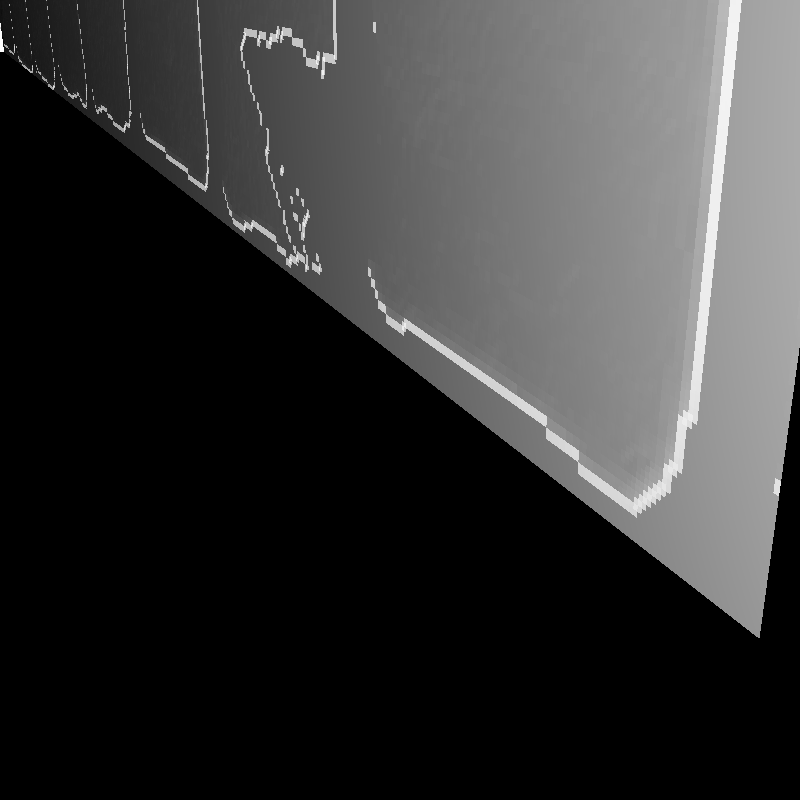
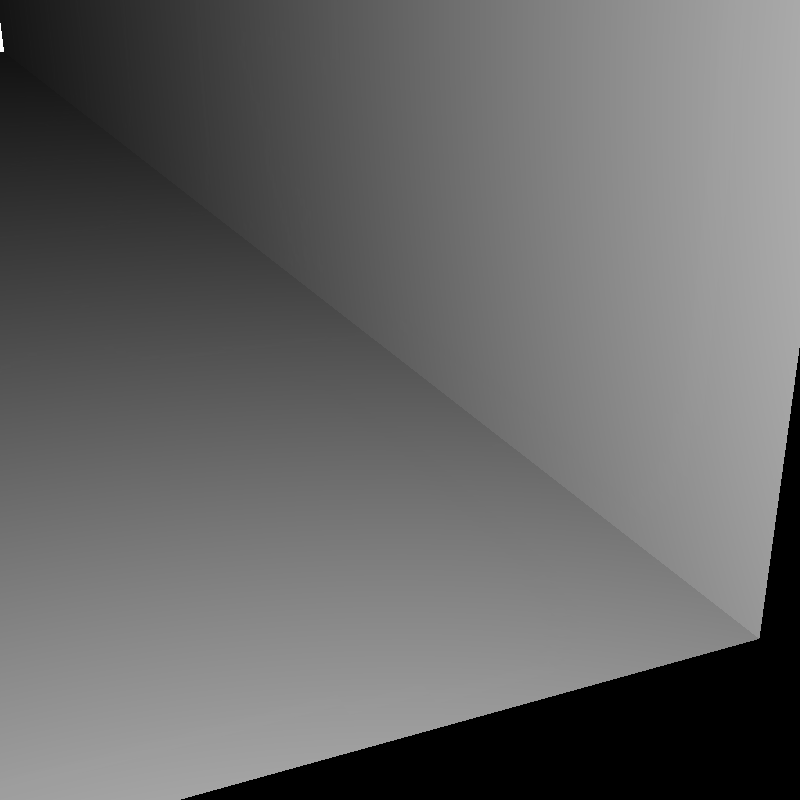
bumpmapping, still incomplete

diff --git a/CG1-skeleton/rt/primmod/bmap.cpp b/CG1-skeleton/rt/primmod/bmap.cpp
@@ -2,12 +2,62 @@
 #include <rt/solids/triangle.h>
 #include <rt/textures/texture.h>
 #include <core/color.h>
-#include <core/matrix.h>
+#include <iostream>
 
 namespace rt{
 
+	Vector solve(Vector &a, Vector &b, Vector &t){
+		Vector k = Vector::rep(0);
+		float det = a.x * b.y - a.y * b.x;
+		if(det > epsilon || det < -epsilon){
+			k.x = (t.x * b.y - t.y * b.x) / det;
+			k.y = (t.y * a.x - t.x * a.y) / det;
+		}
+		return k;
+	}
+
 	BumpMapper::BumpMapper(Triangle* base, Texture* bumpmap, const Point& bv1, const Point& bv2, const Point& bv3, float vscale)
-		: base(base), bumpmap(bumpmap), bv1(bv1), bv2(bv2), bv3(bv3), vscale(vscale) { }
+		: base(base), bumpmap(bumpmap), bv1(bv1), bv2(bv2), bv3(bv3), vscale(vscale) { 
+		//Matrix e = Matrix(Float4(bv1), Float4(bv2), Float4(bv3), Float4(0,0,0,0));
+		//Matrix w = Matrix(Float4(base->v1), Float4(base->v2), Float4(base->v3), Float4(0,0,0,0));
+		//BumpMapper::transform = product(w, e.invert());
+
+		/*Vector uv1 = bv2 - bv1;
+		Vector uv2 = bv3 - bv1;
+		float det = uv1.x * uv2.y - uv2.x * uv1.y;
+		if(det < epsilon && det > -epsilon){
+			wx = Vector::rep(0);
+			wy = Vector::rep(0);
+		}else{
+			Matrix m = Matrix(
+				Float4(uv2.y, -uv1.y, 0, 0),
+				Float4(-uv2.x, uv1.x, 0, 0),
+				Float4(0, 0, 0, 0),
+				Float4(0, 0, 0, 0)
+			);
+			Matrix e = Matrix(
+				Float4(base->v2 - base->v1),
+				Float4(base->v2 - base->v1),
+				Float4::rep(0),
+				Float4::rep(0)
+			);
+			Matrix w = product(m, e) * (1/det);
+			wx = Vector(w[0][0], w[0][1], w[0][2]);
+			wy = Vector(w[1][0], w[1][1], w[1][2]);
+		}*/
+
+		Vector ab = (base->v2 - base->v1);
+		Vector ac = (base->v3 - base->v1);
+
+		Vector a = (bv2 - bv1);
+		Vector b = (bv3 - bv1);
+
+		Vector factors = solve(a, b, Vector(1, 0, 0));
+		wx = -(ab * factors.x + ac * factors.y).normalize();
+
+		factors = solve(a, b,Vector(0, 1, 0));
+		wy = -(ab * factors.x + ac * factors.y).normalize();
+	}
 
 	BBox BumpMapper::getBounds() const
 	{
@@ -28,12 +78,8 @@ namespace rt{
 			RGBColor dy = bumpmap->getColorDY(uvw);
 			float dx_ = (dx.r + dx.g + dx.b) / 3;
 			float dy_ = (dy.r + dy.g + dy.b) / 3;
-			Matrix m1 = 
-			Vector ex = Vector(1,0,0);
-			Vector ey = Vector(0,1,0);
-			Vector wx = cross(intsc.normal(), bv2 - bv1).normalize()  * dx_;
-			Vector wy = cross(bv2 - bv1, intsc.normal()).normalize() * dy_;
-			return Intersection(intsc.distance, intsc.ray, intsc.solid, (intsc.normal() + wx + wy).normalize(), intsc.local());
+			//std::cout << wx.x << " " << wx.y << " " << wx.z << std::endl;
+			return Intersection(intsc.distance, intsc.ray, intsc.solid, (intsc.normal() + wx * dx_ + wy * dy_ ).normalize(), intsc.local());
 		}
 		return intsc;
 	}

diff --git a/CG1-skeleton/rt/textures/imagetex.cpp b/CG1-skeleton/rt/textures/imagetex.cpp
@@ -170,6 +170,62 @@ namespace rt{
 	{
 		if (i==NEAREST)
 		{
+			/*switch(bh)
+			{
+				float x1,y1;
+				int xx, xx1, xx2;
+				case REPEAT:
+					x1 = coord.x;
+					y1 = coord.y;
+					if(coord.x>1)
+						x1 = coord.x - (int)coord.x;
+					if(coord.y>1)
+						y1 = coord.y - (int)coord.y;
+					if(coord.x<0)
+						x1 = coord.x - floor(coord.x);
+					if(coord.y<0)
+						y1 = coord.y - floor(coord.y);
+					x1 = x1*(image.width()-1);
+					y1 = y1*(image.height()-1);
+					xx = floor(x1+0.5);
+					xx2 = xx + 1 > image.width() - 1 ? 0: xx + 1;
+					xx1 = xx - 1 < 0 ? image.width() - 1: xx - 1;
+					return RGBColor(image(xx2,floor(y1+0.5))) - RGBColor(image(xx1,floor(y1+0.5)));
+
+				case MIRROR:
+					x1 = coord.x;
+					y1 = coord.y;
+					if((int)(floor(coord.x))%2==0)
+						x1 = coord.x - floor(coord.x);
+					else
+						x1 = 1 - (coord.x - floor(coord.x));
+
+					if((int)(floor(coord.y))%2==0)
+						y1 = coord.y - floor(coord.y);
+					else
+						y1 = 1 - (coord.y - floor(coord.y));
+					x1 = x1*(image.width()-1);
+					y1 = y1*(image.height()-1);
+					return RGBColor(image(floor(x1+0.5),floor(y1+0.5)));
+					
+
+				case CLAMP:
+					x1 = coord.x;
+					y1 = coord.y;
+					if(coord.x>1)
+						x1 = 1;
+					if(coord.y>1)
+						y1 = 1;
+					if(coord.x<0)
+						x1 = 0;
+					if(coord.y<0)
+						y1 = 0;
+					x1 = x1*(image.width()-1);
+					y1 = y1*(image.height()-1);
+					return RGBColor(image(floor(x1+0.5),floor(y1+0.5)));
+
+			}*/
+			
 			switch(bh)
 			{
 				float x1a, x1b ,y1;

diff --git a/CG1-skeleton/rt/primmod/bmap.h b/CG1-skeleton/rt/primmod/bmap.h
@@ -4,6 +4,7 @@
 #include <vector>
 #include <rt/primitive.h>
 #include <core/point.h>
+#include <core/matrix.h>
 
 namespace rt {
 
@@ -16,6 +17,7 @@ public:
 	Texture* bumpmap;
 	Point bv1, bv2, bv3;
 	float vscale;
+	Vector wx, wy;
     BumpMapper(Triangle* base, Texture* bumpmap, const Point& bv1, const Point& bv2, const Point& bv3, float vscale);
     virtual BBox getBounds() const;
     virtual Intersection intersect(const Ray& ray, float previousBestDistance=FLT_MAX) const;

diff --git a/CG1-skeleton/main/a_bump.cpp b/CG1-skeleton/main/a_bump.cpp
@@ -104,6 +104,6 @@ void a_bumpmappers() {
     bump(cam1, bumptex, "bump-1.png");
     //bump(cam1, bumptexsmooth, "bump-2.png");
     Camera* cam2 = new PerspectiveCamera(Point(0.278f, 0.273f, -0.800f), Vector(0, 0, 1), Vector(0, 1, 0), 0.686f, 0.686f);
-    bump(cam2, bumptexsmooth, "bump-3.png");
+    bump(cam2, bumptex, "bump-3.png");
 
 }
